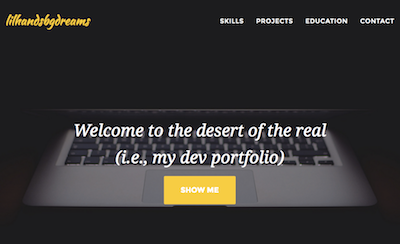
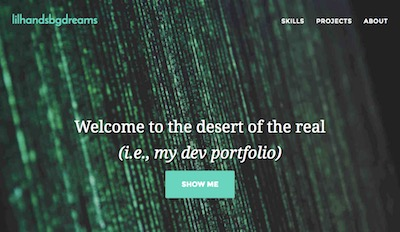
Changed accent colors, header background picture, and About description

diff --git a/_includes/about.html b/_includes/about.html
@@ -12,8 +12,10 @@
                 <div class="col-sm-12">
                     <div class="team-member">
                         <img src="img/about/{{ member.pic }}.jpg" class="img-responsive img-circle" alt="">
+                        <!-- This is more for teams of people
                         <h4>{{ member.name }}</h4>
                         <p class="text-muted">{{ member.position }}</p>
+                        -->
                         <ul class="list-inline social-buttons">
                             {% for network in member.social %}
                             <li>
@@ -29,7 +31,7 @@
             </div>
             <div class="row">
                 <div class="col-lg-8 col-lg-offset-2 text-center" style="padding-bottom: 75px">
-                    <p class="large text-muted" style="color: DimGray">When I'm not studying programming languages, or learning about web frameworks, you can find me pursuing some of my other interests:</p>
+                    <p class="large text-muted" style="color: #595959"><b>Scire licet</b>: Latin for <i>"it is permitted to know"</i>. I love learning! Especially <b>learning all I can about programming</b>, and using those skills to broaden access to all knowledge for everyone. You can also usually find me pursuing one of the following...</p>
                 </div>
             </div>
             <div class="row text-center">
@@ -41,12 +43,12 @@
                     <h4 class="service-heading">Foreign Languages</h4>
                     <p class="text-muted">
                         I love learning languages. I am fluent in
-                        <span style="color: DimGray">Spanish</span>,
+                        <span style="color: #595959">Spanish</span>,
                         proficient in <span style="color: DimGray">
                         Portuguese</span>, and currently studying
-                        <span style="color: DimGray">German</span>.
-                        I hope to learn <span style="color: DimGray">
-                        Japanese</span> and <span style="color: DimGray">
+                        <span style="color: #595959">German</span>.
+                        I hope to learn <span style="color: #595959">
+                        Japanese</span> and <span style="color: #595959">
                         Serbo-Croatian</span> in the future.
                     </p>
                 </div>
@@ -57,7 +59,7 @@
                     </span>
                     <h4 class="service-heading">Public Service</h4>
                     <p class="text-muted">
-                        I served three years in <span style="color: DimGray">AmeriCorps</span>, where I worked to increase childhood & adult literacy in at-risk communities.
+                        I served three years in <span style="color: #595959">AmeriCorps</span>, where I worked to increase childhood & adult literacy in at-risk communities.
                     </p>
                 </div>
                 <div class="col-md-3">
@@ -67,7 +69,7 @@
                     </span>
                     <h4 class="service-heading">Philosophy</h4>
                     <p class="text-muted">
-                        I am a member of a philosophy reading group.
+                        I enjoy works by Hegel and others who have been influenced by him. I am also the secretary of a philosophy reading group.
                     </p>
                 </div>
                 <div class="col-md-3">
@@ -77,7 +79,7 @@
                     </span>
                     <h4 class="service-heading">Film</h4>
                     <p class="text-muted">
-                        I enjoy watching a good sci-fi, drama, action, comedy, or classic movie.
+                        Watching a good sci-fi, drama, action, comedy, or classic movie is my favorite way to relax.
                     </p>
                 </div>
             </div>

diff --git a/_includes/head.html b/_includes/head.html
@@ -16,7 +16,11 @@
     <link rel="stylesheet" href="{{ "/css/font-mfizz/font-mfizz.css" | prepend: site.baseurl }}">
     <link rel="stylesheet" href="{{ "/css/font-awesome/css/font-awesome.min.css" | prepend: site.baseurl }}">
     <link href="https://fonts.googleapis.com/css?family=Montserrat:400,700" rel="stylesheet" type="text/css">
+    <!-- Title font I picked: -->    
+    <link href="https://fonts.googleapis.com/css?family=Josefin+Sans:600" rel="stylesheet">
+    <!-- Original title font:
     <link href='https://fonts.googleapis.com/css?family=Kaushan+Script' rel='stylesheet' type='text/css'>
+    -->
     <link href="https://fonts.googleapis.com/css?family=Lato:400,700,400italic,700italic" rel="stylesheet" type="text/css">
     <link href='https://fonts.googleapis.com/css?family=Droid+Serif:400,700,400italic,700italic' rel='stylesheet' type='text/css'>
     <link href='https://fonts.googleapis.com/css?family=Roboto+Slab:400,100,300,700' rel='stylesheet' type='text/css'>

diff --git a/_includes/header.html b/_includes/header.html
@@ -43,8 +43,8 @@
     <header>
         <div class="container">
             <div class="intro-text">
-                <div class="intro-lead-in">Welcome to the desert of the real</div>
-                <div class="intro-lead-in">(i.e., my dev portfolio)</div>
+                <div class="intro-lead-in" style="text-shadow: 2px 2px black; font-style: inherit;">Welcome to the desert of the real</div>
+                <div class="intro-lead-in" style="text-shadow: 2px 2px black;">(i.e., my dev portfolio)</div>
                 <!-- <div class="intro-heading">Welcome to the desert of the real</div> -->
                 <a href="#skills" class="page-scroll btn btn-xl">Show Me</a>
             </div>

diff --git a/_includes/css/agency.css b/_includes/css/agency.css
@@ -176,7 +176,7 @@ fieldset[disabled] .btn-xl.active {
 }
 
 .navbar-default .navbar-brand {
-    font-family: "Kaushan Script","Helvetica Neue",Helvetica,Arial,cursive;
+    font-family: "Josefin Sans","Helvetica Neue",Helvetica,Arial,sans-serif;
     color: #{{ site.data.template.color.primary }};
 }
 
